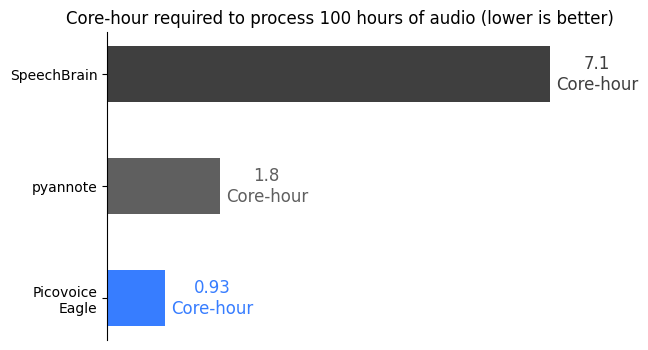
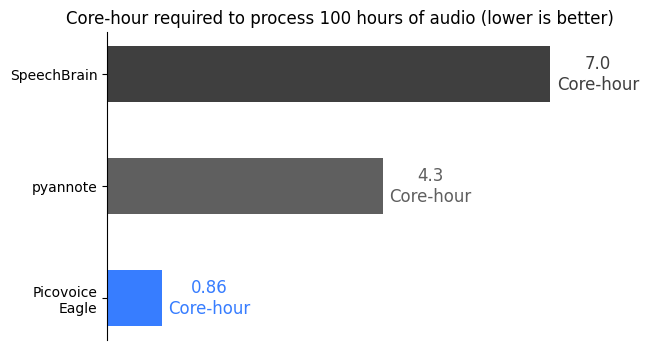
wip

diff --git a/engine.py b/engine.py
@@ -107,6 +107,8 @@ class PyannoteEngine(Engine):
         waveform = np.asarray(pcm, dtype=np.int16).astype(np.single) / 32768.0
         waveform = torch.from_numpy(waveform).view(1, 1, -1)
 
+        torch.set_num_threads(1)
+
         with torch.no_grad():
             start_time = time.perf_counter()
             embedding = self._model(waveform).flatten()
@@ -143,6 +145,8 @@ class SpeechBrainEngine(Engine):
     def infer(self, pcm: Sequence[int], profiles: Sequence[Sequence[float]]) -> Sequence[float]:
         waveform = np.asarray(pcm, dtype=np.int16).astype(np.single) / 32768.0
         waveform = torch.from_numpy(waveform).unsqueeze(0)
+
+        torch.set_num_threads(1)
 
         with torch.no_grad():
             start_time = time.perf_counter()
